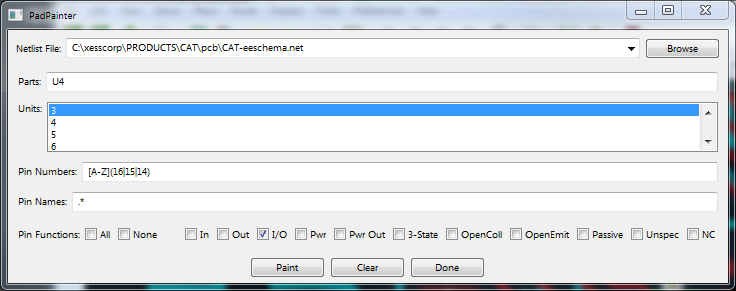
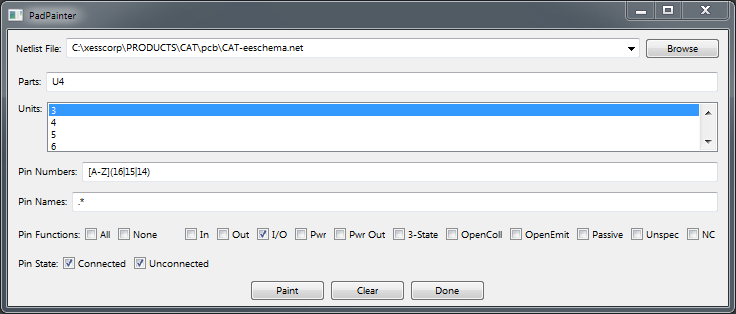
Added ability to filter pins based upon being connected to nets or not.

Changed region(s): [[0.0, 0.0, 1.0, 1.0], [0.0, 0.6804, 0.0938, 0.7113]]

diff --git a/PadPainter.py b/PadPainter.py
@@ -295,7 +295,7 @@ class PadPainterFrame(wx.Frame):
             value='.*',
             tooltip="Enter regular expression to select pin names to paint.")
 
-        # Checkboxes for selecting which types of pins will be painted.
+        # Checkboxes for selecting which functional types of pins will be painted.
         self.pin_func_btn_lbls = {
             'In': 'I',
             'Out': 'O',
@@ -313,25 +313,42 @@ class PadPainterFrame(wx.Frame):
             lbl: wx.CheckBox(panel, label=lbl)
             for lbl in self.pin_func_btn_lbls
         }
-        for btn_lbl in self.pin_func_btns:
-            self.pin_func_btns[btn_lbl].SetLabel(btn_lbl)
-            self.pin_func_btns[btn_lbl].SetValue(True)
-            self.pin_func_btns[btn_lbl].SetToolTip(
-                wx.ToolTip(
-                    "Check to enable painting of pins of this functional type."
+        for btn_lbl, btn in self.pin_func_btns.items():
+            btn.SetLabel(btn_lbl)
+            btn.SetValue(True)
+            btn.SetToolTip(wx.ToolTip(
+                    "Check to enable painting of pins of functional type {}.".format(btn_lbl.lower())
                 ))
+            self.Bind(wx.EVT_CHECKBOX, self.HandlePinFuncBtns, btn)
 
         # Add extra checkboxes for checking all or none of the pin function checkboxes.
         self.all_ckbx = wx.CheckBox(panel, label='All')  # Check all the boxes.
         self.all_ckbx.SetToolTip(
-            wx.ToolTip("Check to enable painting of all pin types."))
+            wx.ToolTip("Check to enable painting of all functional pin types."))
+        self.Bind(wx.EVT_CHECKBOX, self.HandlePinFuncBtns, self.all_ckbx)
         self.none_ckbx = wx.CheckBox(
             panel, label='None')  # Uncheck all the boxes.
         self.none_ckbx.SetToolTip(
-            wx.ToolTip("Check to disable painting of all pin types."))
-        self.Bind(wx.EVT_CHECKBOX,
-                  self.HandlePinFuncBtns)  # Function to handle the checkboxes.
+            wx.ToolTip("Check to disable painting of all functional pin types."))
+        self.Bind(wx.EVT_CHECKBOX, self.HandlePinFuncBtns, self.none_ckbx)
         self.UpdateAllNoneBtns()
+
+        # Checkboxes for selecting the state of the pins.
+        self.pin_state_btn_lbls = {
+            'Connected': 'C',
+            'Unconnected': 'U',
+        }
+        self.pin_state_btns = {
+            lbl: wx.CheckBox(panel, label=lbl)
+            for lbl in self.pin_state_btn_lbls
+        }
+        for btn_lbl, btn in self.pin_state_btns.items():
+            btn.SetLabel(btn_lbl)
+            btn.SetValue(True)
+            btn.SetToolTip(wx.ToolTip(
+                    "Check to enable painting of pins that are {} to nets.".format(btn_lbl.lower())
+                ))
+            self.Bind(wx.EVT_CHECKBOX, self.HandlePinStateBtns, btn)
 
         # Action buttons for painting and clearing the selected pads.
         self.paint_btn = wx.Button(panel, -1, 'Paint')
@@ -392,6 +409,20 @@ class PadPainterFrame(wx.Frame):
             self.pin_func_btns['NC'], flag=wx.ALL | wx.ALIGN_CENTER)
         pin_func_sizer.AddSpacer(WIDGET_SPACING)
 
+        # Create a horizontal sizer for holding all the pin-state checkboxes.
+        pin_state_sizer = wx.BoxSizer(wx.HORIZONTAL)
+        pin_state_sizer.AddSpacer(WIDGET_SPACING)
+        pin_state_sizer.Add(
+            wx.StaticText(panel, label='Pin State:'),
+            flag=wx.ALL | wx.ALIGN_CENTER)
+        pin_state_sizer.AddSpacer(WIDGET_SPACING)
+        pin_state_sizer.Add(
+            self.pin_state_btns['Connected'], flag=wx.ALL | wx.ALIGN_CENTER)
+        pin_state_sizer.AddSpacer(WIDGET_SPACING)
+        pin_state_sizer.Add(
+            self.pin_state_btns['Unconnected'], flag=wx.ALL | wx.ALIGN_CENTER)
+        pin_state_sizer.AddSpacer(WIDGET_SPACING)
+
         # Create a horizontal sizer for holding the action buttons.
         btn_sizer = wx.BoxSizer(wx.HORIZONTAL)
         btn_sizer.AddSpacer(WIDGET_SPACING)
@@ -411,6 +442,7 @@ class PadPainterFrame(wx.Frame):
         sizer.Add(self.nums, 0, wx.ALL | wx.EXPAND, WIDGET_SPACING)
         sizer.Add(self.names, 0, wx.ALL | wx.EXPAND, WIDGET_SPACING)
         sizer.Add(pin_func_sizer, 0, wx.ALL, WIDGET_SPACING)
+        sizer.Add(pin_state_sizer, 0, wx.ALL, WIDGET_SPACING)
         sizer.Add(btn_sizer, 0, wx.ALL | wx.ALIGN_CENTER, WIDGET_SPACING)
 
         # Size the panel.
@@ -459,6 +491,11 @@ class PadPainterFrame(wx.Frame):
             self.pin_func_btn_lbls[btn.GetLabel()]
             for btn in self.pin_func_btns.values() if btn.GetValue()
         ]
+        # Create a list of enabled pin states.
+        selected_pin_states = [
+            self.pin_state_btn_lbls[btn.GetLabel()]
+            for btn in self.pin_state_btns.values() if btn.GetValue()
+        ]
 
         # Go through the pads and select those that meet the criteria.
         selected_pads = []
@@ -474,13 +511,18 @@ class PadPainterFrame(wx.Frame):
                 for pad in part.Pads():
                     try:
                         pin = symbol.pins[pad.GetName()]
+                        if pad.GetNet().GetNetname().strip() == '':
+                            pin.state = 'U'
+                        else:
+                            pin.state = 'C'
                     except KeyError:
                         # This usually happens when the footprint has a mounting
                         # hole that's not associated with a pin in the electrical symbol.
                         continue
                     if (pin.unit in selected_units and re.search(num_re, pin.num)
                             and re.search(name_re, pin.name)
-                            and pin.func in selected_pin_funcs):
+                            and pin.func in selected_pin_funcs
+                            and pin.state in selected_pin_states):
                         selected_pads.append(pad)
         except Exception as e:
             debug_dialog('Something went wrong while selecting pads: '+repr(e))
@@ -542,6 +584,11 @@ class PadPainterFrame(wx.Frame):
                     cb.SetValue(False)
 
         self.UpdateAllNoneBtns()
+
+    def HandlePinStateBtns(self, evt):
+        '''Handle checking/unchecking of pin state checkboxes.'''
+
+        
 
 
 class PadPainter(ActionPlugin):
